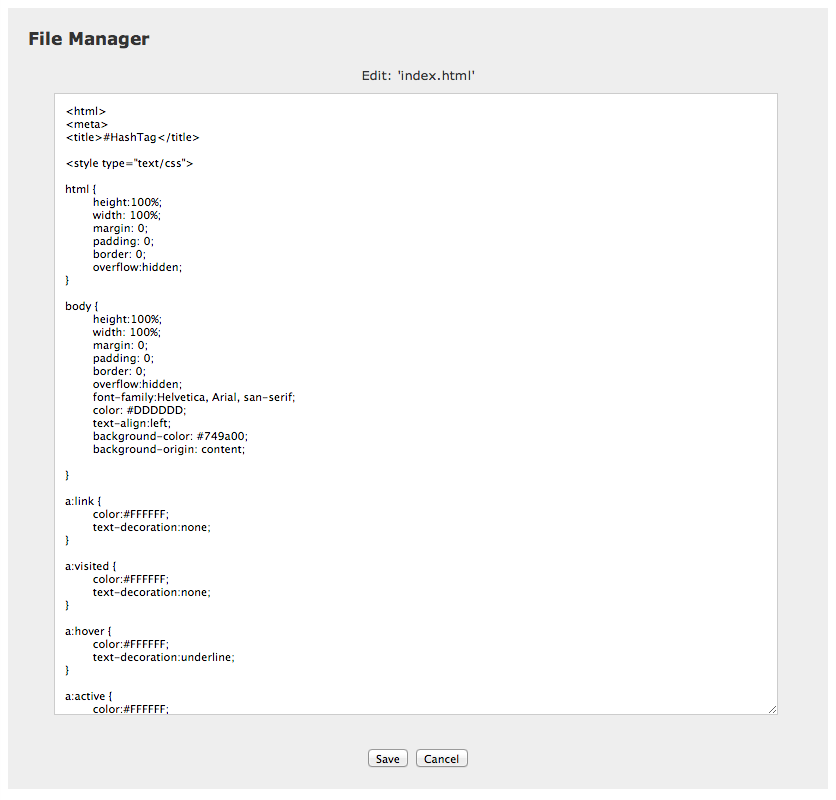
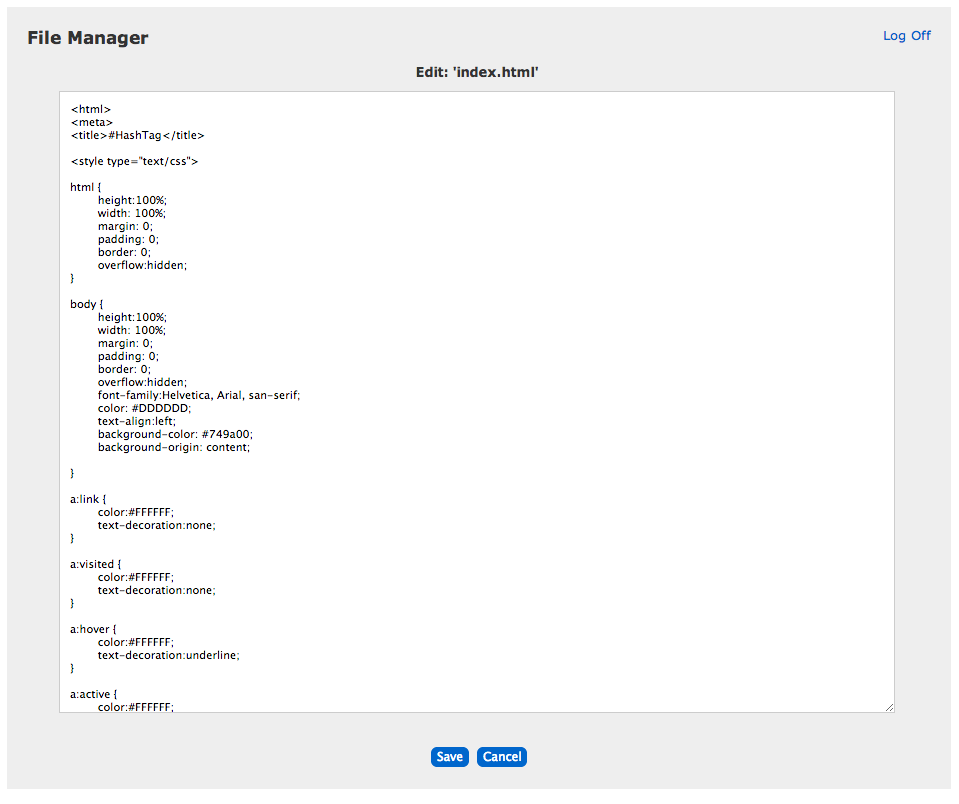
Updated skins, closes #8

diff --git a/css/styles.css b/css/styles.css
@@ -3,14 +3,12 @@ table.mainTable {
     border: 0;
     width: 100%;
 }
+tr.line {
+    background: #666666;
+}
 tr.header {
     background: #333333;
-}
-tr.line {
-    background: #999999;
-}
-tr.darkline {
-    background: #000000;
+    padding-left: 5px;
 }
 td.lightcolumn {
     background: #ffffff;
@@ -19,6 +17,7 @@ td.lightcolumn {
     font-weight: normal;
     color: #333333;
     height: 20px;
+    padding-left: 5px;
 }
 td.darkcolumn {
     background: #eeeeee;
@@ -27,10 +26,7 @@ td.darkcolumn {
     font-weight: normal;
     color: #333333;
     height: 20px;
-}
-input.mainTable {
-    font-size: 11px;
-    background-color: #ffffff;
+    padding-left: 5px;
 }
 span.text {
     font-family : Verdana, Arial;
@@ -46,7 +42,7 @@ span.error {
     font-size : 13px;
     font-weight: normal;
     color: #ffffff;
-    background: #ff0000;
+    background: #8E1919;
 }
 span.info {
     text-align:center;
@@ -56,7 +52,7 @@ span.info {
     font-size : 13px;
     font-weight: normal;
     color: #333333;
-    background: #f5f500;
+    background: #FFCC00;
 }
 span.success {
     text-align:center;
@@ -66,7 +62,7 @@ span.success {
     font-size : 13px;
     font-weight: normal;
     color: #ffffff;
-    background: #0a8a0a;
+    background: #297A29;
 }
 span.title {
     font-family : Verdana, Arial;
@@ -85,13 +81,6 @@ span.hrow {
     font-size : 13px;
     font-weight: bold;
     color: #ffffff;
-}
-.textarea {
-    width:90%;
-    height: 600px;
-    padding: 10px;
-    margin: 10px;
-    border: 1px solid #ccc;
 }
 .icon {
     height: 15px;
@@ -122,23 +111,83 @@ span.hrow {
 .maxWidth {
     width:100%;
 }
+input.mainTable {
+    font-size: 11px;
+    background-color: #ffffff;
+}
+input[type=submit] {
+    background-color: #0066CC;
+    -moz-border-radius: 5px;
+    -webkit-border-radius: 5px;
+    border-radius:6px;
+    color: #ffffff;
+    font-size: 12px;
+    text-decoration: none;
+    cursor: poiner;
+    border:none;
+}
+input[type=submit]:hover {
+    border: none;
+    background:#003D7A;
+    box-shadow: 0px 0px 1px #777;
+
+}
+input[type=reset] {
+    background-color: #0066CC;
+    -moz-border-radius: 5px;
+    -webkit-border-radius: 5px;
+    border-radius:6px;
+    color: #ffffff;
+    font-size: 12px;
+    text-decoration: none;
+    cursor: poiner;
+    border:none;
+}
+input[type=reset]:hover {
+    border: none;
+    background:#003D7A;
+    box-shadow: 0px 0px 1px #777;
+}
+input[type=file] {
+    background-color: #0066CC;
+    -moz-border-radius: 5px;
+    -webkit-border-radius: 5px;
+    border-radius:6px;
+    color: #ffffff;
+    font-size: 12px;
+    text-decoration: none;
+    cursor: poiner;
+    border:none;
+}
+
+.textarea {
+    width:90%;
+    height: 600px;
+    padding: 10px;
+    margin: 10px;
+    border: 1px solid #ccc;
+}
 a:link {
-    color: #666666;
+    color: #0066CC;
     font-family : Verdana, Arial;
     font-size : 13px;
+    text-decoration:none;
 }
 a:visited {
-    color: #666666;
+    color: #0066CC;
     font-family : Verdana, Arial;
     font-size : 13px;
+    text-decoration:none;
 }
 a:hover {
-    color: #666666;
+    color: #003D7A;
     font-family : Verdana, Arial;
     font-size : 13px;
+    text-decoration:none;
 }
 a:active {
-    color: #666666;
+    color: #0066CC;
     font-family : Verdana, Arial;
     font-size : 13px;
+    text-decoration:none;
 }

diff --git a/templates/main-row.html b/templates/main-row.html
@@ -2,35 +2,29 @@
     <td class='lightcolumn'>
         <div class="{{fileicontypeCSS}} icon"></div>
     </td>
-    <td class='darkcolumn'>
+    <td class='lightcolumn'>
         <span class='text'>
             <a class="{{isFolder}}" href='{{action}}?username={{username}}&amp;pathext={{pathext}}{{encodedfile}}/'>{{filename}}</a>
             <span class="{{isFile}}">{{filename}}</span>
         </span>
     </td>
-    <td class='lightcolumn'>
+    <td class='darkcolumn'>
         <span class='text'>{{filetype}}</span>
     </td>
-    <td class='darkcolumn'>
+    <td class='lightcolumn'>
         <span class='text'>{{filedata}}</span>
     </td>
-    <td class='lightcolumn'>
+    <td class='darkcolumn'>
         <span class='text'>{{modified}}</span>
     </td>
-    <td class='darkcolumn'>
-        <a class="{{showView}}" href='{{baseUrl}}{{pathext}}{{encodedfile}}' target='_blank'>View</a>
-    </td>
     <td class='lightcolumn'>
-        <a class="{{showDelete}}" href="javascript:var c=confirm('Delete \'{{encodedfile}}\' ?'); if(c) document.location='{{action}}?delete={{encodedfile}}&amp;username={{username}}&amp;pathext={{pathext}}'">Delete</a>
-    </td>
-    <td class='darkcolumn'>
-        <a class="{{showEdit}}" href='{{action}}?edit={{encodedfile}}&amp;u={{u}}&amp;pathext={{pathext}}'>Edit</a>
-        <a class="{{showUnzip}}" href="javascript:var c=prompt('Unzip \'{{encodedfile}}\' to'); if(c) document.location='{{action}}?unzip={{encodedfile}}&amp;newname=' + c + '&amp;username={{username}}&amp;pathext={{pathext}}'">Unzip</a>
-    </td>
-    <td class='lightcolumn'>
-        <a href="javascript:var c=prompt('Rename \'{{encodedfile}}\' to'); if(c) document.location='{{action}}?rename={{encodedfile}}&amp;newname=' + c + '&amp;username={{username}}&amp;pathext={{pathext}}'">Rename</a>
+        <a class="{{showDelete}}" href="javascript:var c=confirm('Delete \'{{encodedfile}}\' ?'); if(c) document.location='{{action}}?delete={{encodedfile}}&amp;username={{username}}&amp;pathext={{pathext}}'"><img src="images/delete.gif"/>Delete </a>
+        <a href="javascript:var c=prompt('Rename \'{{encodedfile}}\' to'); if(c) document.location='{{action}}?rename={{encodedfile}}&amp;newname=' + c + '&amp;username={{username}}&amp;pathext={{pathext}}'"><img src="images/rename.gif"/> Rename</a>
+        <a class="{{showView}}" href='{{baseUrl}}{{pathext}}{{encodedfile}}' target='_blank'><img src="images/download.gif"/> Download</a>
+        <a class="{{showEdit}}" href='{{action}}?edit={{encodedfile}}&amp;u={{u}}&amp;pathext={{pathext}}'><img src="images/edit.gif"/> Edit</a>
+<a class="{{showUnzip}}" href="javascript:var c=prompt('Unzip \'{{encodedfile}}\' to'); if(c) document.location='{{action}}?unzip={{encodedfile}}&amp;newname=' + c + '&amp;username={{username}}&amp;pathext={{pathext}}'"><img src="images/unzip.gif"/> Unzip</a>
     </td>
 </tr>
-<tr class='darkline'>
-    <td colspan='9' height='1'></td>
+<tr class='line'>
+    <td colspan='6' height='1'></td>
 </tr>

diff --git a/templates/main.html b/templates/main.html
@@ -34,19 +34,13 @@
             <span class='hrow'>Modified Date</span>
         </td>
         <td>&nbsp;</td>
-        <td>&nbsp;</td>
-        <td>&nbsp;</td>
-        <td>&nbsp;</td>
-    </tr>
-    <tr class='line'>
-        <td colspan='9' height='2'></td>
     </tr>
     <tr class='{{displayBackLink}}'>
         <td class='lightcolumn'>
             <a class="icon" href='{{action}}?username={{username}}&amp;back=1&amp;pathext={{pathext}}'><img src="images/back.gif"/></a>
         </td>
-        <td colspan='8' class='lightcolumn'>&nbsp;</td>
+        <td colspan='5' class='lightcolumn'>&nbsp;</td>
     </tr>
-    <tr class='darkline' class='{{displayBackLink}}'>
-        <td colspan='9' height='1'></td>
+    <tr class='line' class='{{displayBackLink}}'>
+        <td colspan='6' height='1'></td>
     </tr>{{content}}</table>

diff --git a/templates/edit.html b/templates/edit.html
@@ -1,6 +1,6 @@
 <form name='mainForm' method='post' action='{{action}}'>
     <center>
-        <span class='text'>Edit: '{{pathext}}{{editingFile}}'</span>
+        <span class='label text'>Edit: '{{pathext}}{{editingFile}}'</span>
         <br />
         <textarea name='newcontent' class='textarea'>{{oldcontent}}</textarea>
         <br />

diff --git a/README.md b/README.md
@@ -45,11 +45,11 @@ Setup
 Screenshots
 =========
 
-<img src="https://raw.github.com/khilnani/xqto-filemanager/master/screenshots/File%20Upload.png" />
-<img src="https://raw.github.com/khilnani/xqto-filemanager/master/screenshots/Deletion%20Error.png" />
-<img src="https://raw.github.com/khilnani/xqto-filemanager/master/screenshots/Deletion%20Success.png" />
-<img src="https://raw.github.com/khilnani/xqto-filemanager/master/screenshots/Folder%20Creation.png" />
-<img src="https://raw.github.com/khilnani/xqto-filemanager/master/screenshots/Unzip.png" />
+<img src="https://raw.github.com/khilnani/xqto-filemanager/master/screenshots/Login%20Screen.png" />
+<img src="https://raw.github.com/khilnani/xqto-filemanager/master/screenshots/File%20Listing.png" />
+<img src="https://raw.github.com/khilnani/xqto-filemanager/master/screenshots/File%20Deletion.png" />
+<img src="https://raw.github.com/khilnani/xqto-filemanager/master/screenshots/File%20Unzip.png" />
+<img src="https://raw.github.com/khilnani/xqto-filemanager/master/screenshots/Error%20Message.png" />
 <img src="https://raw.github.com/khilnani/xqto-filemanager/master/screenshots/File%20Edit.png" />
 
 
